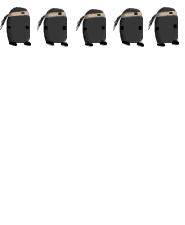
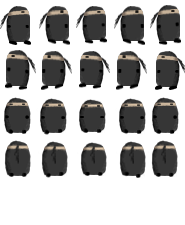
added player movement animations

diff --git a/js/game.js b/js/game.js
@@ -25,7 +25,7 @@ let Game = {
     game.load.image('treasure', 'assets/images/treasure.png')
     game.load.image('shuriken', 'assets/images/shuriken.png')
     game.load.image('hilary2', 'assets/images/hilary2.png')
-    game.load.spritesheet('hamster', 'assets/images/hamster-animation-sheet.png', 37, 45, 5) 
+    game.load.spritesheet('hamster', 'assets/images/hamster-animation-sheet.png', 37, 45) 
   },
   
   create: function() {
@@ -52,9 +52,23 @@ let Game = {
 
     // Player locations for testing
     player = game.add.sprite(700, 700, 'hamster')
+
+    // Animations
+    player.animations.add('left', [5, 6, 7, 8, 8], 10, true);
+    player.animations.add('right', [0, 1, 2, 3, 4], 10, true);
+    player.animations.add('down', [10, 11, 12, 13, 14], 10, true);
+    player.animations.add('up', [15, 16, 17, 18, 19], 10, true);
+    walk = player.animations.add('walk', [0, 2, 4], 7, true);
+
+
+
+
+
+
+
     // player = game.add.sprite(115, 460, 'hamster')
     // player = game.add.sprite(700, 0, 'hamster')
-    walk = player.animations.add('walk')
+    // walk = player.animations.add('walk')
     player.animations.play('walk', 15, true)
 
     // Add Enemy
@@ -179,6 +193,7 @@ let Game = {
     game.physics.arcade.collide(player, teleport2, this.teleportPlayer2, null, this)
     game.physics.arcade.collide(player, boundaries)
     game.physics.arcade.collide(log, waterBoundary)
+    game.physics.arcade.collide(player, levelUnlock)
     game.physics.arcade.collide(player, treasure, this.spawnWeapon, null, this)
     game.physics.arcade.collide(player, logCheck, this.checkPlatfrom, null, this)
 
@@ -187,18 +202,22 @@ let Game = {
 
     if (cursors.left.isDown) {
       player.body.velocity.x = -300;
+      player.animations.play('left')
     }
 
     else if (cursors.right.isDown) {
       player.body.velocity.x = 300;
+      player.animations.play('right')
     }
 
     else if (cursors.up.isDown) {
       player.body.velocity.y = -300;
+      player.animations.play('up')
     }
 
     else if (cursors.down.isDown) {
       player.body.velocity.y = 300;
+      player.animations.play('down')
     }
 
     else if (fireButton.isDown) {
